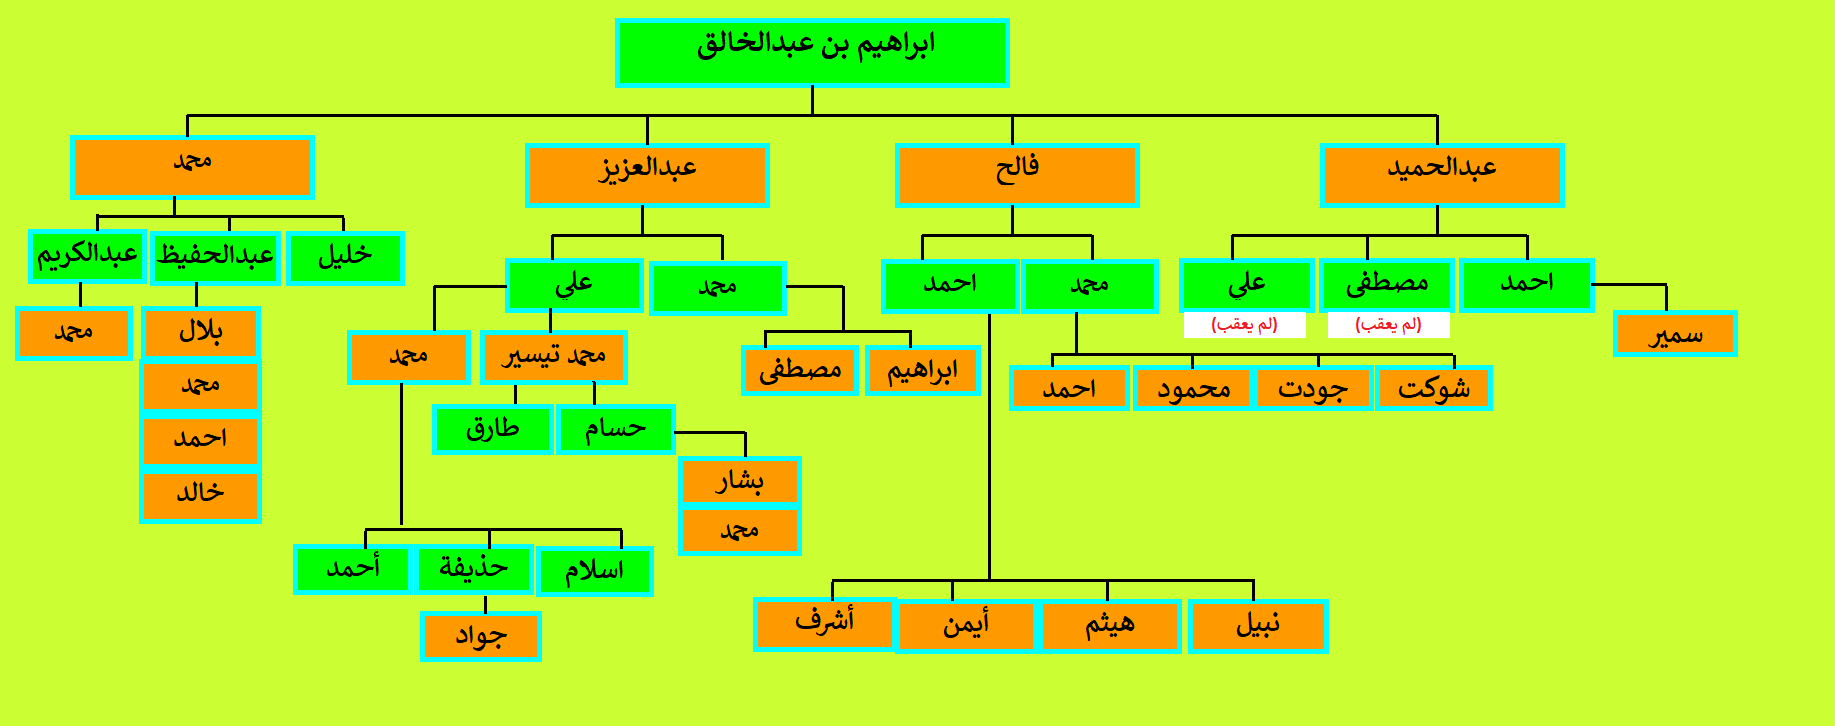
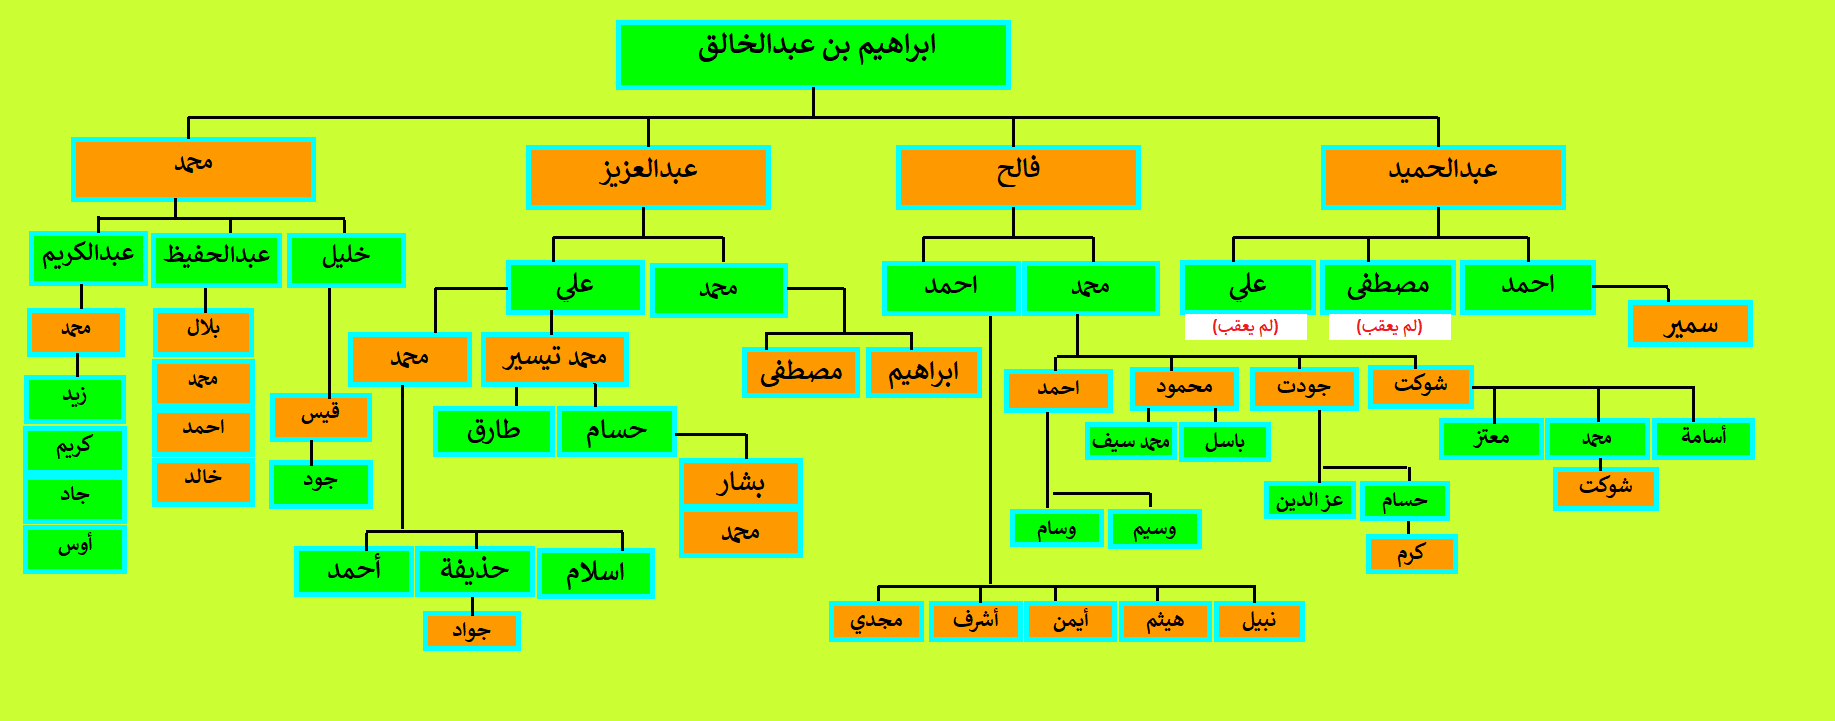
update

Changed region(s): [[0.0, 0.0, 0.9629, 0.9154], [0.4038, 0.7933, 0.7455, 0.9154], [0.5281, 0.6713, 0.6523, 0.7628]]

diff --git a/Ibraheem-Ben-Abdelkhaleg.html b/Ibraheem-Ben-Abdelkhaleg.html
@@ -30,7 +30,7 @@ function FP_getObjectByID(id,o) {//v1.0
 </script>
 </head>
 
-<body style="background-color: #CCFF33" onload="FP_preloadImgs(/*url*/'button3309.gif',/*url*/'button3310.gif',/*url*/'button3312.gif',/*url*/'button3313.gif',/*url*/'button3315.gif',/*url*/'button3316.gif')">
+<body style="background-color: #CCFF33" onload="FP_preloadImgs(/*url*/'button3309.gif',/*url*/'button3310.gif',/*url*/'button3312.gif',/*url*/'button3313.gif',/*url*/'button3315.gif',/*url*/'button3316.gif',/*url*/'button3321.gif',/*url*/'button3322.gif',/*url*/'button3323.gif',/*url*/'button3324.gif')">
 
 <div id="layer1" style="position: absolute; width: 95px; height: 25px; z-index: 1; left: 890px; top: 420px">
 	<a href="Ibraheem%20ben%20Mohammed-Samer.html">
@@ -41,6 +41,14 @@ function FP_getObjectByID(id,o) {//v1.0
 <div id="layer3" style="position: absolute; width: 115px; height: 35px; z-index: 3; left: 30px; top: 25px">
 	<a href="index.html">
 	<img id="img3" alt="الصفحة الرئيسية" height="23" onmousedown="FP_swapImg(1,0,/*id*/'img3',/*url*/'button3316.gif')" onmouseout="FP_swapImg(0,0,/*id*/'img3',/*url*/'button3317.gif')" onmouseover="FP_swapImg(1,0,/*id*/'img3',/*url*/'button3315.gif')" onmouseup="FP_swapImg(0,0,/*id*/'img3',/*url*/'button3315.gif')" src="button3317.gif" style="border: 0" width="113" /><!-- MSComment="ibutton" fp-style="fp-btn: Metal Capsule 3; fp-font-style: Bold; fp-transparent: 1" fp-title="الصفحة الرئيسية" --></a></div>
+<div id="layer4" style="position: absolute; width: 110px; height: 25px; z-index: 4; left: 1005px; top: 685px">
+	<a href="Ahmad-Faleh-Ibrahemm.html">
+	<img id="img4" alt="الاحفاد" height="20" onmousedown="FP_swapImg(1,0,/*id*/'img4',/*url*/'button3322.gif')" onmouseout="FP_swapImg(0,0,/*id*/'img4',/*url*/'button3325.gif')" onmouseover="FP_swapImg(1,0,/*id*/'img4',/*url*/'button3321.gif')" onmouseup="FP_swapImg(0,0,/*id*/'img4',/*url*/'button3321.gif')" src="button3325.gif" style="border: 0" width="100" /><!-- MSComment="ibutton" fp-style="fp-btn: Metal Capsule 6; fp-font-style: Bold; fp-font-size: 8; fp-transparent: 1" fp-title="الاحفاد" --></a></div>
+<div id="layer5" style="position: absolute; width: 100px; height: 100px; z-index: 5">
+	<div id="layer6" style="position: absolute; width: 100px; height: 30px; z-index: 1; left: 155px; top: 525px">
+		<a href="Abdel-Hafeed-Mohammed-Ibraheem.html">
+		<img id="img5" alt="الاحفاد" height="20" onmousedown="FP_swapImg(1,0,/*id*/'img5',/*url*/'button3324.gif')" onmouseout="FP_swapImg(0,0,/*id*/'img5',/*url*/'button3326.gif')" onmouseover="FP_swapImg(1,0,/*id*/'img5',/*url*/'button3323.gif')" onmouseup="FP_swapImg(0,0,/*id*/'img5',/*url*/'button3323.gif')" src="button3326.gif" style="border: 0" width="100" /><!-- MSComment="ibutton" fp-style="fp-btn: Metal Capsule 6; fp-font-style: Bold; fp-font-size: 8; fp-transparent: 1" fp-title="الاحفاد" --></a></div>
+</div>
 <img alt="" height="733" src="Ibraheem-Ben-Abdelkhaleg.png" width="1842" />
 
 </body>

diff --git a/Abdel-Hafeed-Mohammed-Ibraheem.html b/Abdel-Hafeed-Mohammed-Ibraheem.html
@@ -1,0 +1,42 @@
+<!DOCTYPE html PUBLIC "-//W3C//DTD XHTML 1.0 Transitional//EN" "http://www.w3.org/TR/xhtml1/DTD/xhtml1-transitional.dtd">
+<html xmlns="http://www.w3.org/1999/xhtml">
+
+<head>
+<meta content="text/html; charset=utf-8" http-equiv="Content-Type" />
+<title>النسب العمري ظ آل الزقط في سمر</title>
+<script type="text/javascript">
+<!--
+function FP_preloadImgs() {//v1.0
+ var d=document,a=arguments; if(!d.FP_imgs) d.FP_imgs=new Array();
+ for(var i=0; i<a.length; i++) { d.FP_imgs[i]=new Image; d.FP_imgs[i].src=a[i]; }
+}
+
+function FP_swapImg() {//v1.0
+ var doc=document,args=arguments,elm,n; doc.$imgSwaps=new Array(); for(n=2; n<args.length;
+ n+=2) { elm=FP_getObjectByID(args[n]); if(elm) { doc.$imgSwaps[doc.$imgSwaps.length]=elm;
+ elm.$src=elm.src; elm.src=args[n+1]; } }
+}
+
+function FP_getObjectByID(id,o) {//v1.0
+ var c,el,els,f,m,n; if(!o)o=document; if(o.getElementById) el=o.getElementById(id);
+ else if(o.layers) c=o.layers; else if(o.all) el=o.all[id]; if(el) return el;
+ if(o.id==id || o.name==id) return o; if(o.childNodes) c=o.childNodes; if(c)
+ for(n=0; n<c.length; n++) { el=FP_getObjectByID(id,c[n]); if(el) return el; }
+ f=o.forms; if(f) for(n=0; n<f.length; n++) { els=f[n].elements;
+ for(m=0; m<els.length; m++){ el=FP_getObjectByID(id,els[n]); if(el) return el; } }
+ return null;
+}
+// -->
+</script>
+</head>
+
+<body style="background-color: #C7F932" onload="FP_preloadImgs(/*url*/'button3330.gif',/*url*/'button3331.gif')">
+
+<div id="layer1" style="position: absolute; width: 115px; height: 50px; z-index: 1; left: 25px; top: 30px">
+	<a href="index.html">
+	<img id="img1" alt="الصفجة الرئيسية" height="23" onmousedown="FP_swapImg(1,0,/*id*/'img1',/*url*/'button3331.gif')" onmouseout="FP_swapImg(0,0,/*id*/'img1',/*url*/'button3332.gif')" onmouseover="FP_swapImg(1,0,/*id*/'img1',/*url*/'button3330.gif')" onmouseup="FP_swapImg(0,0,/*id*/'img1',/*url*/'button3330.gif')" src="button3332.gif" style="border: 0" width="115" /><!-- MSComment="ibutton" fp-style="fp-btn: Metal Capsule 3; fp-font-style: Bold; fp-font-size: 8; fp-transparent: 1" fp-title="الصفجة الرئيسية" --></a></div>
+<img alt="" height="716" src="Abdel-Hafeed-Ibraheem.png" width="1828" />
+
+</body>
+
+</html>

diff --git a/Ahmad-Faleh-Ibrahemm.html b/Ahmad-Faleh-Ibrahemm.html
@@ -1,0 +1,42 @@
+<!DOCTYPE html PUBLIC "-//W3C//DTD XHTML 1.0 Transitional//EN" "http://www.w3.org/TR/xhtml1/DTD/xhtml1-transitional.dtd">
+<html xmlns="http://www.w3.org/1999/xhtml">
+
+<head>
+<meta content="text/html; charset=utf-8" http-equiv="Content-Type" />
+<title>النسب العمري - آل الزقط في سمر</title>
+<script type="text/javascript">
+<!--
+function FP_preloadImgs() {//v1.0
+ var d=document,a=arguments; if(!d.FP_imgs) d.FP_imgs=new Array();
+ for(var i=0; i<a.length; i++) { d.FP_imgs[i]=new Image; d.FP_imgs[i].src=a[i]; }
+}
+
+function FP_swapImg() {//v1.0
+ var doc=document,args=arguments,elm,n; doc.$imgSwaps=new Array(); for(n=2; n<args.length;
+ n+=2) { elm=FP_getObjectByID(args[n]); if(elm) { doc.$imgSwaps[doc.$imgSwaps.length]=elm;
+ elm.$src=elm.src; elm.src=args[n+1]; } }
+}
+
+function FP_getObjectByID(id,o) {//v1.0
+ var c,el,els,f,m,n; if(!o)o=document; if(o.getElementById) el=o.getElementById(id);
+ else if(o.layers) c=o.layers; else if(o.all) el=o.all[id]; if(el) return el;
+ if(o.id==id || o.name==id) return o; if(o.childNodes) c=o.childNodes; if(c)
+ for(n=0; n<c.length; n++) { el=FP_getObjectByID(id,c[n]); if(el) return el; }
+ f=o.forms; if(f) for(n=0; n<f.length; n++) { els=f[n].elements;
+ for(m=0; m<els.length; m++){ el=FP_getObjectByID(id,els[n]); if(el) return el; } }
+ return null;
+}
+// -->
+</script>
+</head>
+
+<body style="background-color: #CCFF33" onload="FP_preloadImgs(/*url*/'button3327.gif',/*url*/'button3328.gif')">
+
+<div id="layer1" style="position: absolute; width: 120px; height: 30px; z-index: 1; left: 40px; top: 40px">
+	<a href="index.html">
+	<img id="img1" alt="الصفجة الرئيسية" height="23" onmousedown="FP_swapImg(1,0,/*id*/'img1',/*url*/'button3328.gif')" onmouseout="FP_swapImg(0,0,/*id*/'img1',/*url*/'button3329.gif')" onmouseover="FP_swapImg(1,0,/*id*/'img1',/*url*/'button3327.gif')" onmouseup="FP_swapImg(0,0,/*id*/'img1',/*url*/'button3327.gif')" src="button3329.gif" style="border: 0" width="115" /><!-- MSComment="ibutton" fp-style="fp-btn: Metal Capsule 3; fp-font-style: Bold; fp-font-size: 8; fp-transparent: 1" fp-title="الصفجة الرئيسية" --></a></div>
+<img alt="" height="720" src="Ahmad-Faleh-Ibraheem.png" width="1835" />
+
+</body>
+
+</html>
